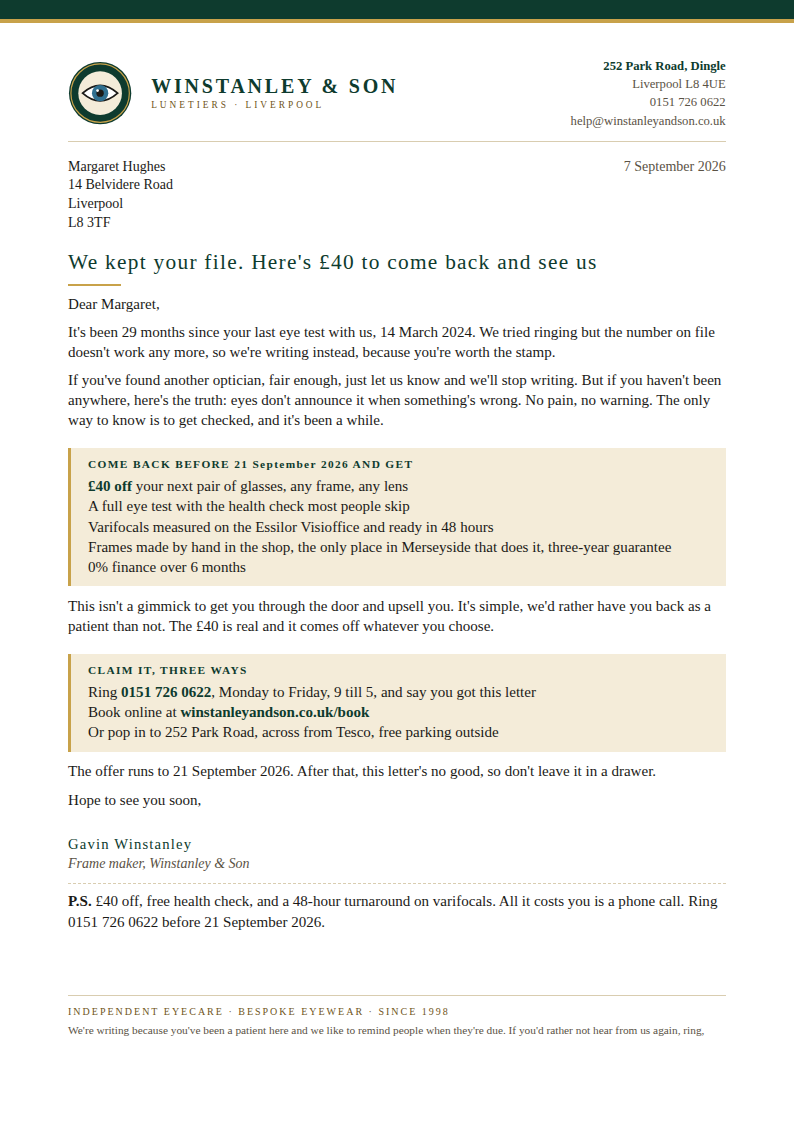
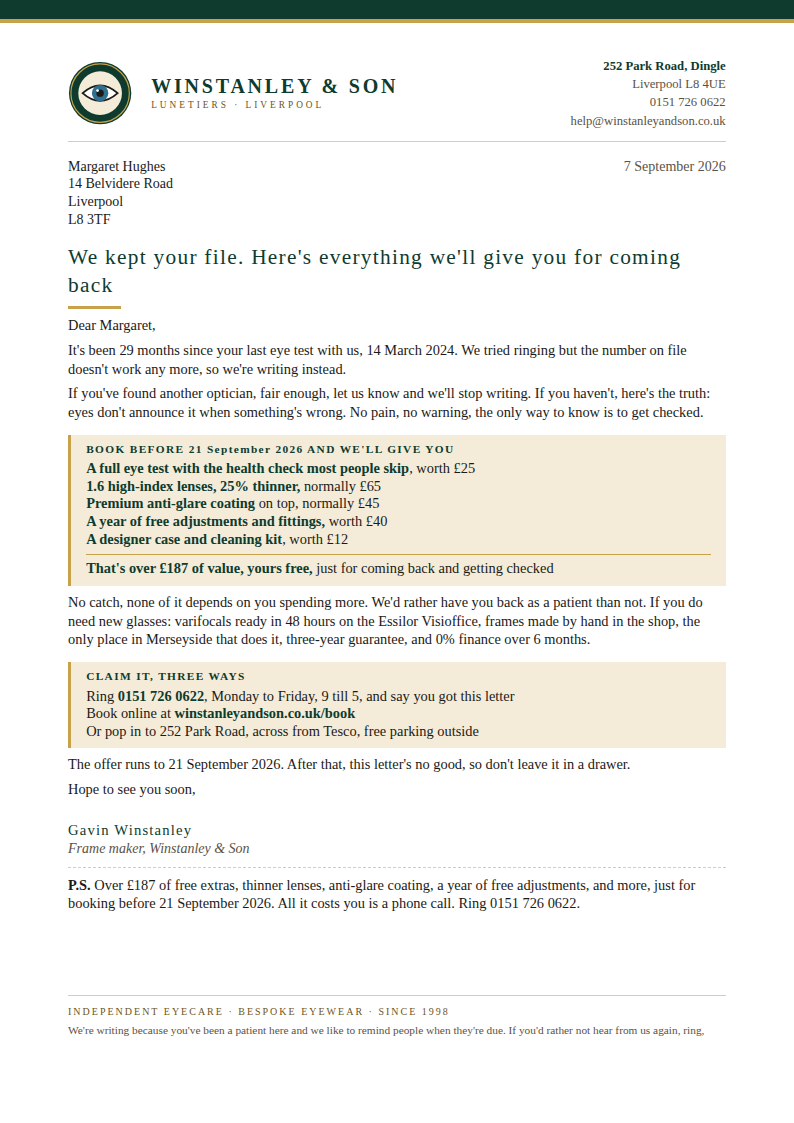
Rebuild cold reactivation offer as a value stack instead of cash off
Claude-Session: https://claude.ai/code/session_01RZ9dmirfgbEMTdyZc5ae4N

Changed region(s): [[0.0907, 0.1558, 0.9068, 0.8415]]

diff --git a/tools/address-audit/letters/cold-reactivation-letter.html b/tools/address-audit/letters/cold-reactivation-letter.html
@@ -4,7 +4,7 @@
 :root{--green:#0e3b2e;--gold:#c8a24a;--gold-text:#6f5420;--ink:#1b1a17;--parchment:#f4ecd9;--rule:#d9cdb0;--slate:#5a5245;--iris:#2f6f8f}
 @page{size:A4;margin:0}
 *{box-sizing:border-box}
-html,body{margin:0;background:#fff;color:var(--ink);font-family:'Cormorant Garamond',Georgia,serif;font-size:11.3pt;line-height:1.34;-webkit-print-color-adjust:exact;print-color-adjust:exact}
+html,body{margin:0;background:#fff;color:var(--ink);font-family:'Cormorant Garamond',Georgia,serif;font-size:10.8pt;line-height:1.28;-webkit-print-color-adjust:exact;print-color-adjust:exact}
 .page{width:210mm;min-height:297mm;padding:12mm 18mm 18mm;position:relative;display:flex;flex-direction:column}
 .band{position:absolute;left:0;top:0;right:0;height:6mm;background:var(--green);border-bottom:1.2mm solid var(--gold)}
 .head{display:flex;align-items:center;gap:5mm;margin-top:3mm;padding-bottom:3mm;border-bottom:1px solid var(--rule)}
@@ -18,9 +18,9 @@ html,body{margin:0;background:#fff;color:var(--ink);font-family:'Cormorant Garam
 .date{color:var(--slate)}
 h1{font-family:Cinzel,Georgia,serif;font-weight:500;font-size:16pt;letter-spacing:.06em;color:var(--green);margin:4mm 0 2mm}
 h1:after{content:"";display:block;width:14mm;height:.6mm;background:var(--gold);margin-top:2mm}
-p{margin:0 0 2.1mm}
+p{margin:0 0 1.7mm}
 ul{margin:0 0 3.2mm;padding-left:5mm} li{margin-bottom:1.2mm}
-.ways{background:var(--parchment);border-left:1mm solid var(--gold);padding:2.4mm 4.5mm;margin:2.6mm 0}
+.ways{background:var(--parchment);border-left:1mm solid var(--gold);padding:2mm 4mm;margin:2mm 0;line-height:1.22}
 .ways b{font-family:Cinzel,Georgia,serif;font-size:8.5pt;letter-spacing:.12em;color:var(--green);display:block;margin-bottom:1mm}
 .sig{margin-top:2.5mm}
 .sig .name{font-family:Cinzel,Georgia,serif;font-size:11pt;letter-spacing:.08em;color:var(--green)}
@@ -34,17 +34,18 @@ ul{margin:0 0 3.2mm;padding-left:5mm} li{margin-bottom:1.2mm}
 {{contact.address1}}
 {{contact.city}}
 {{contact.postal_code}}</div><div class="date">{{right_now.date}}</div></div>
-<h1>We kept your file. Here's £40 to come back and see us</h1>
+<h1>We kept your file. Here's everything we'll give you for coming back</h1>
 <p>Dear {{contact.first_name}},</p>
-<p>It's been {{contact.months_since_exam}} months since your last eye test with us, {{contact.last_exam_date}}. We tried ringing but the number on file doesn't work any more, so we're writing instead, because you're worth the stamp.</p>
-<p>If you've found another optician, fair enough, just let us know and we'll stop writing. But if you haven't been anywhere, here's the truth: eyes don't announce it when something's wrong. No pain, no warning. The only way to know is to get checked, and it's been a while.</p>
-<div class="ways"><b>COME BACK BEFORE {{contact.letter_expiry_date}} AND GET</b>
-<b style="display:inline;font-family:inherit;letter-spacing:0;font-size:inherit">£40 off</b> your next pair of glasses, any frame, any lens<br>
-A full eye test with the health check most people skip<br>
-Varifocals measured on the Essilor Visioffice and ready in 48 hours<br>
-Frames made by hand in the shop, the only place in Merseyside that does it, three-year guarantee<br>
-0% finance over 6 months</div>
-<p>This isn't a gimmick to get you through the door and upsell you. It's simple, we'd rather have you back as a patient than not. The £40 is real and it comes off whatever you choose.</p>
+<p>It's been {{contact.months_since_exam}} months since your last eye test with us, {{contact.last_exam_date}}. We tried ringing but the number on file doesn't work any more, so we're writing instead.</p>
+<p>If you've found another optician, fair enough, let us know and we'll stop writing. If you haven't, here's the truth: eyes don't announce it when something's wrong. No pain, no warning, the only way to know is to get checked.</p>
+<div class="ways"><b>BOOK BEFORE {{contact.letter_expiry_date}} AND WE'LL GIVE YOU</b>
+<b style="display:inline;font-family:inherit;letter-spacing:0;font-size:inherit">A full eye test with the health check most people skip</b>, worth £25<br>
+<b style="display:inline;font-family:inherit;letter-spacing:0;font-size:inherit">1.6 high-index lenses, 25% thinner,</b> normally £65<br>
+<b style="display:inline;font-family:inherit;letter-spacing:0;font-size:inherit">Premium anti-glare coating</b> on top, normally £45<br>
+<b style="display:inline;font-family:inherit;letter-spacing:0;font-size:inherit">A year of free adjustments and fittings,</b> worth £40<br>
+<b style="display:inline;font-family:inherit;letter-spacing:0;font-size:inherit">A designer case and cleaning kit</b>, worth £12<br>
+<span style="display:block;margin-top:1.5mm;padding-top:1.5mm;border-top:1px solid var(--gold)"><b style="display:inline;font-family:inherit;letter-spacing:0;font-size:inherit">That's over £187 of value, yours free,</b> just for coming back and getting checked</span></div>
+<p>No catch, none of it depends on you spending more. We'd rather have you back as a patient than not. If you do need new glasses: varifocals ready in 48 hours on the Essilor Visioffice, frames made by hand in the shop, the only place in Merseyside that does it, three-year guarantee, and 0% finance over 6 months.</p>
 <div class="ways"><b>CLAIM IT, THREE WAYS</b>
 Ring <b style="display:inline;font-family:inherit;letter-spacing:0;font-size:inherit">0151 726 0622</b>, Monday to Friday, 9 till 5, and say you got this letter<br>
 Book online at <b style="display:inline;font-family:inherit;letter-spacing:0;font-size:inherit">winstanleyandson.co.uk/book</b><br>
@@ -52,6 +53,6 @@ Or pop in to 252 Park Road, across from Tesco, free parking outside</div>
 <p>The offer runs to {{contact.letter_expiry_date}}. After that, this letter's no good, so don't leave it in a drawer.</p>
 <p>Hope to see you soon,</p>
 <div class="sig"><p></p><div class="name">{{practice.signatory_name}}</div><div class="role">{{practice.signatory_role}}, Winstanley &amp; Son</div></div>
-<p style="margin-top:2.5mm;border-top:1px dashed var(--rule);padding-top:2mm"><b>P.S.</b> £40 off, free health check, and a 48-hour turnaround on varifocals. All it costs you is a phone call. Ring 0151 726 0622 before {{contact.letter_expiry_date}}.</p>
+<p style="margin-top:2.5mm;border-top:1px dashed var(--rule);padding-top:2mm"><b>P.S.</b> Over £187 of free extras, thinner lenses, anti-glare coating, a year of free adjustments, and more, just for booking before {{contact.letter_expiry_date}}. All it costs you is a phone call. Ring 0151 726 0622.</p>
 <div class="foot"><div class="inner"><div class="tag">INDEPENDENT EYECARE · BESPOKE EYEWEAR · SINCE 1998</div>We're writing because you've been a patient here and we like to remind people when they're due. If you'd rather not hear from us again, ring, email, or send this letter back marked "no more letters" and we'll take you off straight away.</div></div>
 </div></body></html>

diff --git a/tools/address-audit/letters/cold-reactivation-letter.md b/tools/address-audit/letters/cold-reactivation-letter.md
@@ -1,20 +1,22 @@
 # Cold reactivation letter (bands: 12-24m, 24-36m)
 
-Direct-response version, led with a genuine £40 offer and a deadline. Run deceased screening and the PAF cleanse before any send to these bands. Needs `contact.letter_expiry_date`.
+Direct-response version, offer built as a value stack (no cash discount), with a deadline. Run deceased screening and the PAF cleanse before any send to these bands. Needs `contact.letter_expiry_date`.
 
-# We kept your file. Here's £40 to come back and see us
+# We kept your file. Here's everything we'll give you for coming back
 
 Dear {{contact.first_name}},
-It's been {{contact.months_since_exam}} months since your last eye test with us, {{contact.last_exam_date}}. We tried ringing but the number on file doesn't work any more, so we're writing instead, because you're worth the stamp.
-If you've found another optician, fair enough, just let us know and we'll stop writing. But if you haven't been anywhere, here's the truth: eyes don't announce it when something's wrong. No pain, no warning. The only way to know is to get checked, and it's been a while.
-**COME BACK BEFORE {{contact.letter_expiry_date}} AND GET**  
+It's been {{contact.months_since_exam}} months since your last eye test with us, {{contact.last_exam_date}}. We tried ringing but the number on file doesn't work any more, so we're writing instead.
+If you've found another optician, fair enough, let us know and we'll stop writing. If you haven't, here's the truth: eyes don't announce it when something's wrong. No pain, no warning, the only way to know is to get checked.
+**BOOK BEFORE {{contact.letter_expiry_date}} AND WE'LL GIVE YOU**  
 
-£40 off your next pair of glasses, any frame, any lens
-A full eye test with the health check most people skip
-Varifocals measured on the Essilor Visioffice and ready in 48 hours
-Frames made by hand in the shop, the only place in Merseyside that does it, three-year guarantee
-0% finance over 6 months
-This isn't a gimmick to get you through the door and upsell you. It's simple, we'd rather have you back as a patient than not. The £40 is real and it comes off whatever you choose.
+A full eye test with the health check most people skip, worth £25
+1.6 high-index lenses, 25% thinner, normally £65
+Premium anti-glare coating on top, normally £45
+A year of free adjustments and fittings, worth £40
+A designer case and cleaning kit, worth £12
+
+That's over £187 of value, yours free, just for coming back and getting checked
+No catch, none of it depends on you spending more. We'd rather have you back as a patient than not. If you do need new glasses: varifocals ready in 48 hours on the Essilor Visioffice, frames made by hand in the shop, the only place in Merseyside that does it, three-year guarantee, and 0% finance over 6 months.
 **CLAIM IT, THREE WAYS**  
 
 Ring 0151 726 0622, Monday to Friday, 9 till 5, and say you got this letter
@@ -23,7 +25,7 @@ Or pop in to 252 Park Road, across from Tesco, free parking outside
 The offer runs to {{contact.letter_expiry_date}}. After that, this letter's no good, so don't leave it in a drawer.
 Hope to see you soon,
 {{practice.signatory_name}}{{practice.signatory_role}}, Winstanley & Son
-P.S. £40 off, free health check, and a 48-hour turnaround on varifocals. All it costs you is a phone call. Ring 0151 726 0622 before {{contact.letter_expiry_date}}.
+P.S. Over £187 of free extras, thinner lenses, anti-glare coating, a year of free adjustments, and more, just for booking before {{contact.letter_expiry_date}}. All it costs you is a phone call. Ring 0151 726 0622.
 
 ---
 

diff --git a/tools/address-audit/letters/README.md b/tools/address-audit/letters/README.md
@@ -26,11 +26,15 @@ letter into junk mail.
 
 - Recall letter offer: free 1.6 high-index lenses (25% thinner) with premium anti-glare
   coating on any pair ordered before the deadline, worth over £110.
-- Reactivation letter offer: £40 off the next pair, any frame, any lens.
+- Reactivation letter offer: a value stack, not cash off. Free eye test with health check
+  (£25), 1.6 high-index lenses (£65), premium anti-glare coating (£45), a year of free
+  adjustments (£40), designer case and cleaning kit (£12): over £187 of value, free, for
+  booking before the deadline. No cash discount, which trains people to wait for one and
+  costs pure margin; a stack of real extras costs far less to deliver than its face value
+  and reads as far more generous.
 
-The £40 reactivation figure is still a placeholder. Confirm the real margin on both offers
-before the first live send, lens upgrades and discounts need sign-off from whoever prices
-jobs, not a copywriter.
+All individual values are placeholders. Confirm the real cost/price of each item before
+the first live send, this needs sign-off from whoever prices jobs, not a copywriter.
 
 
 | File | Bands | Trigger |
